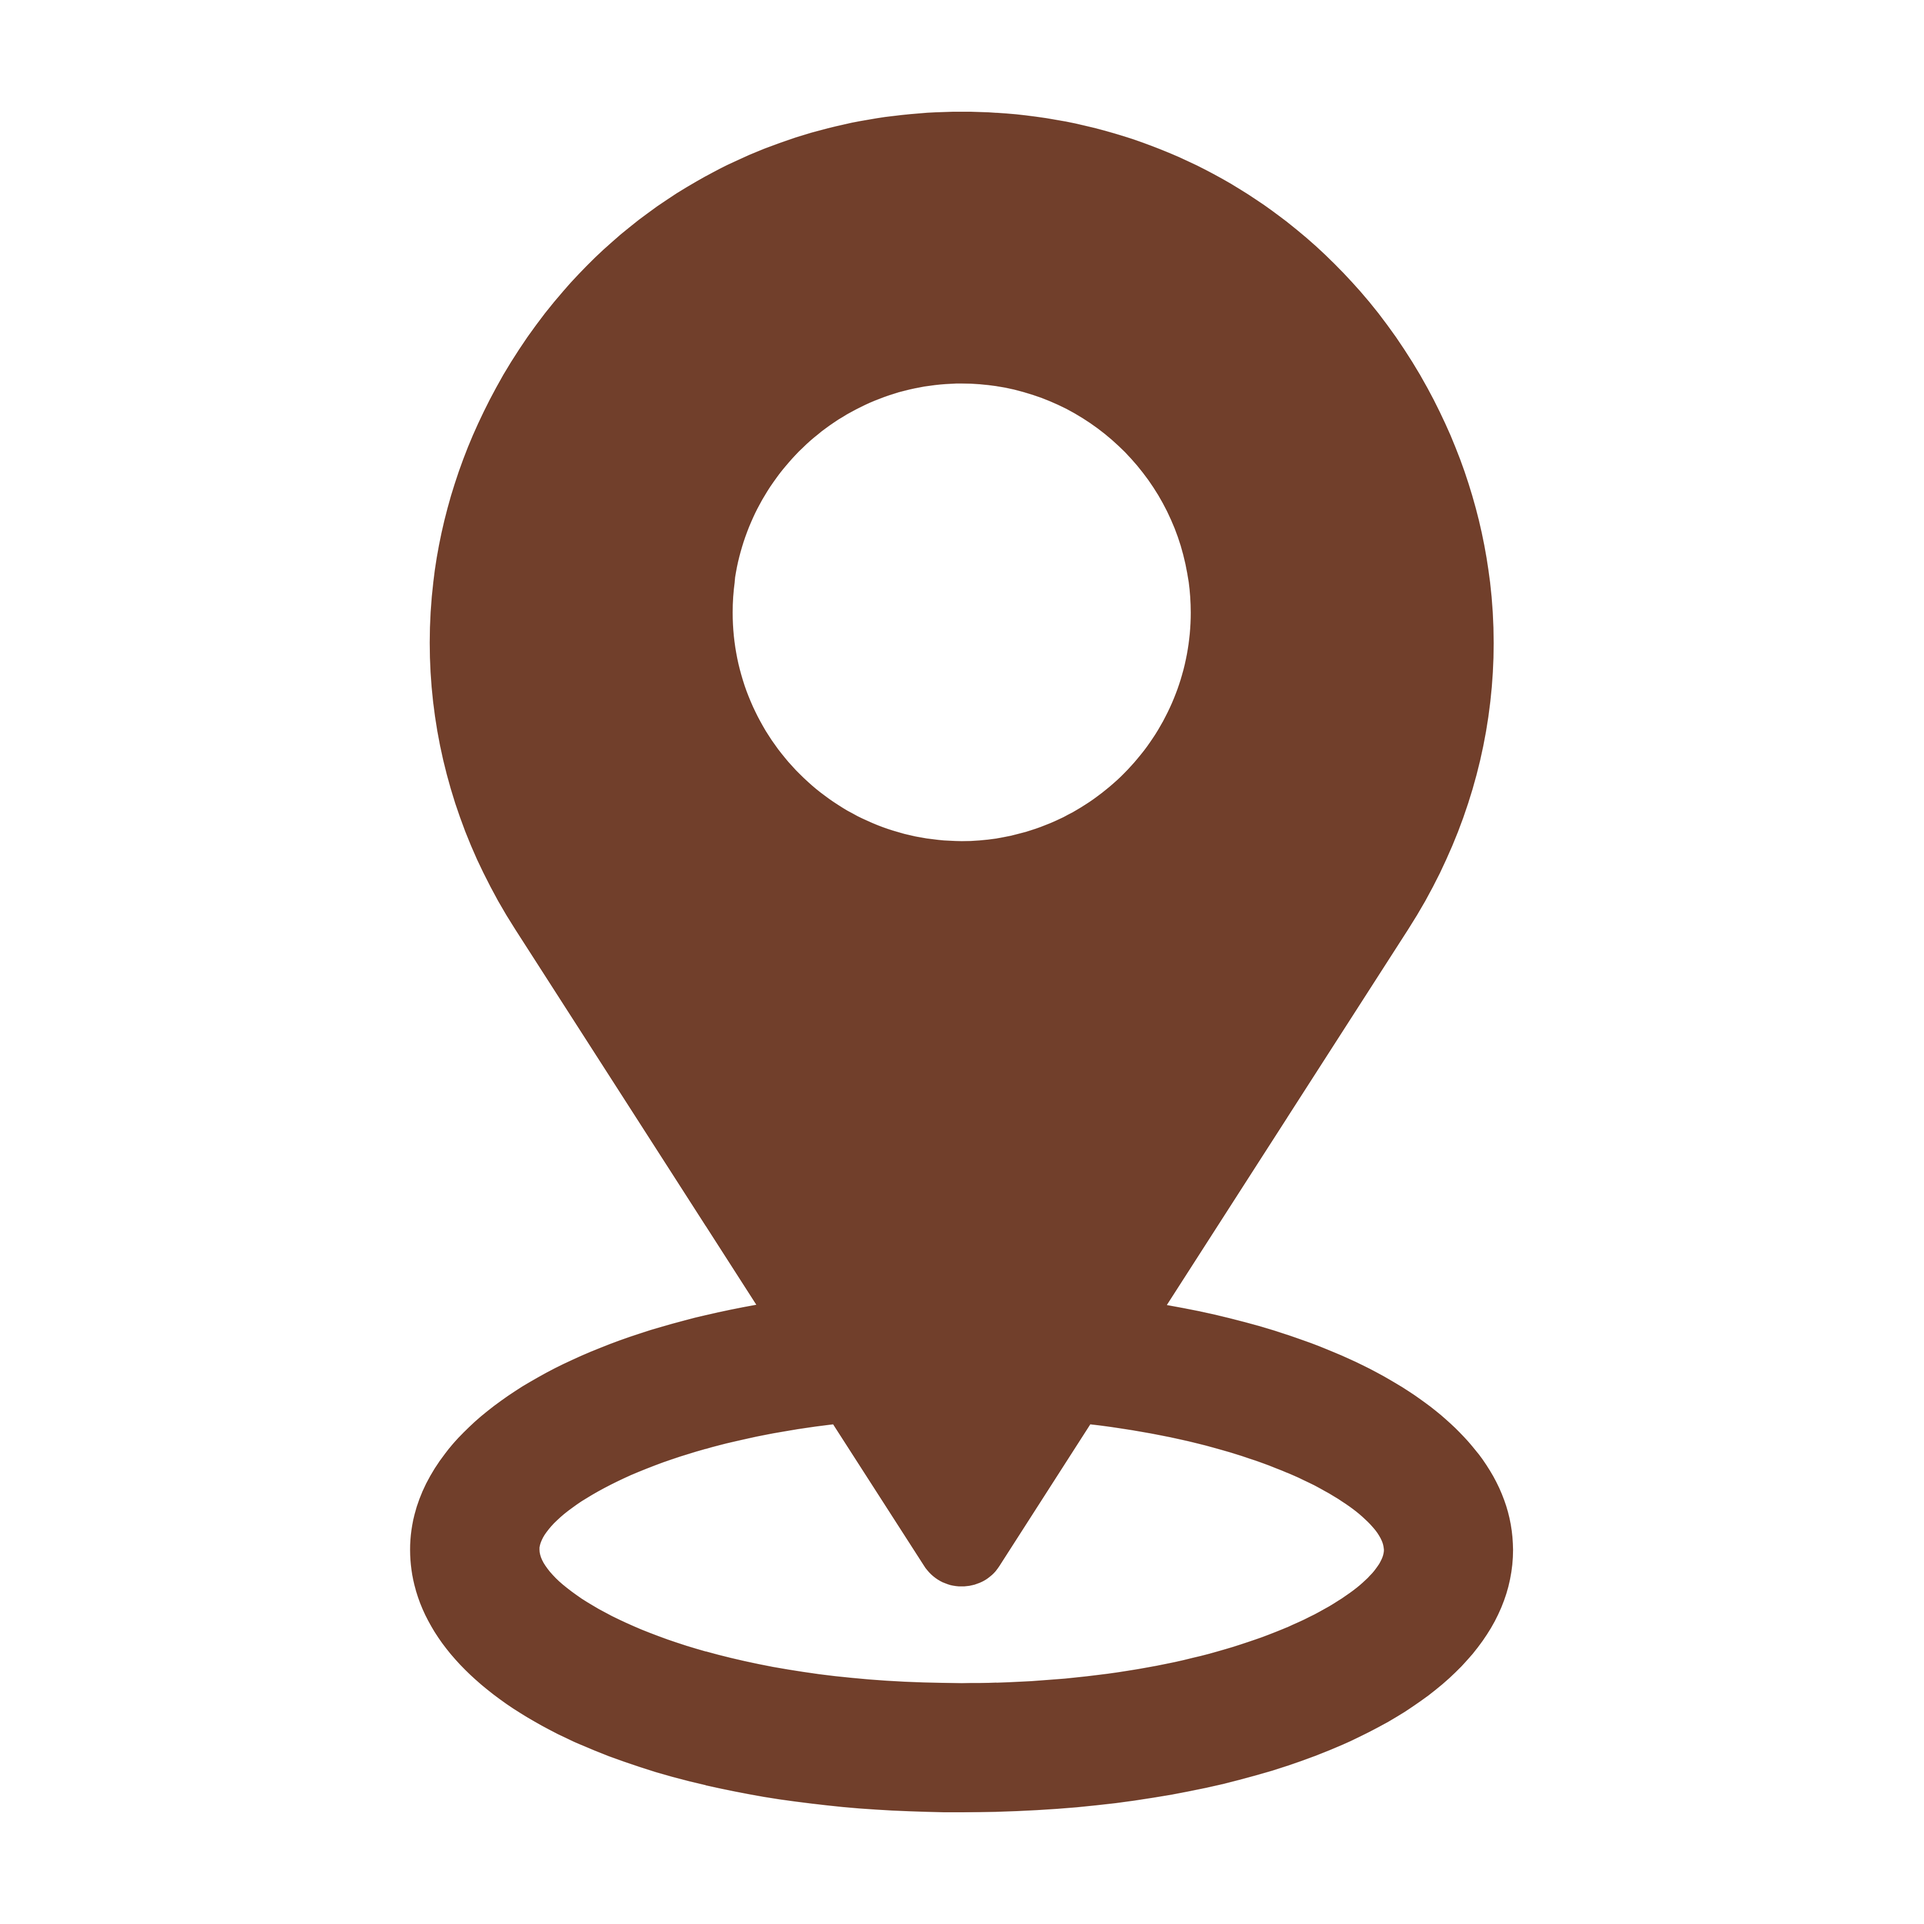
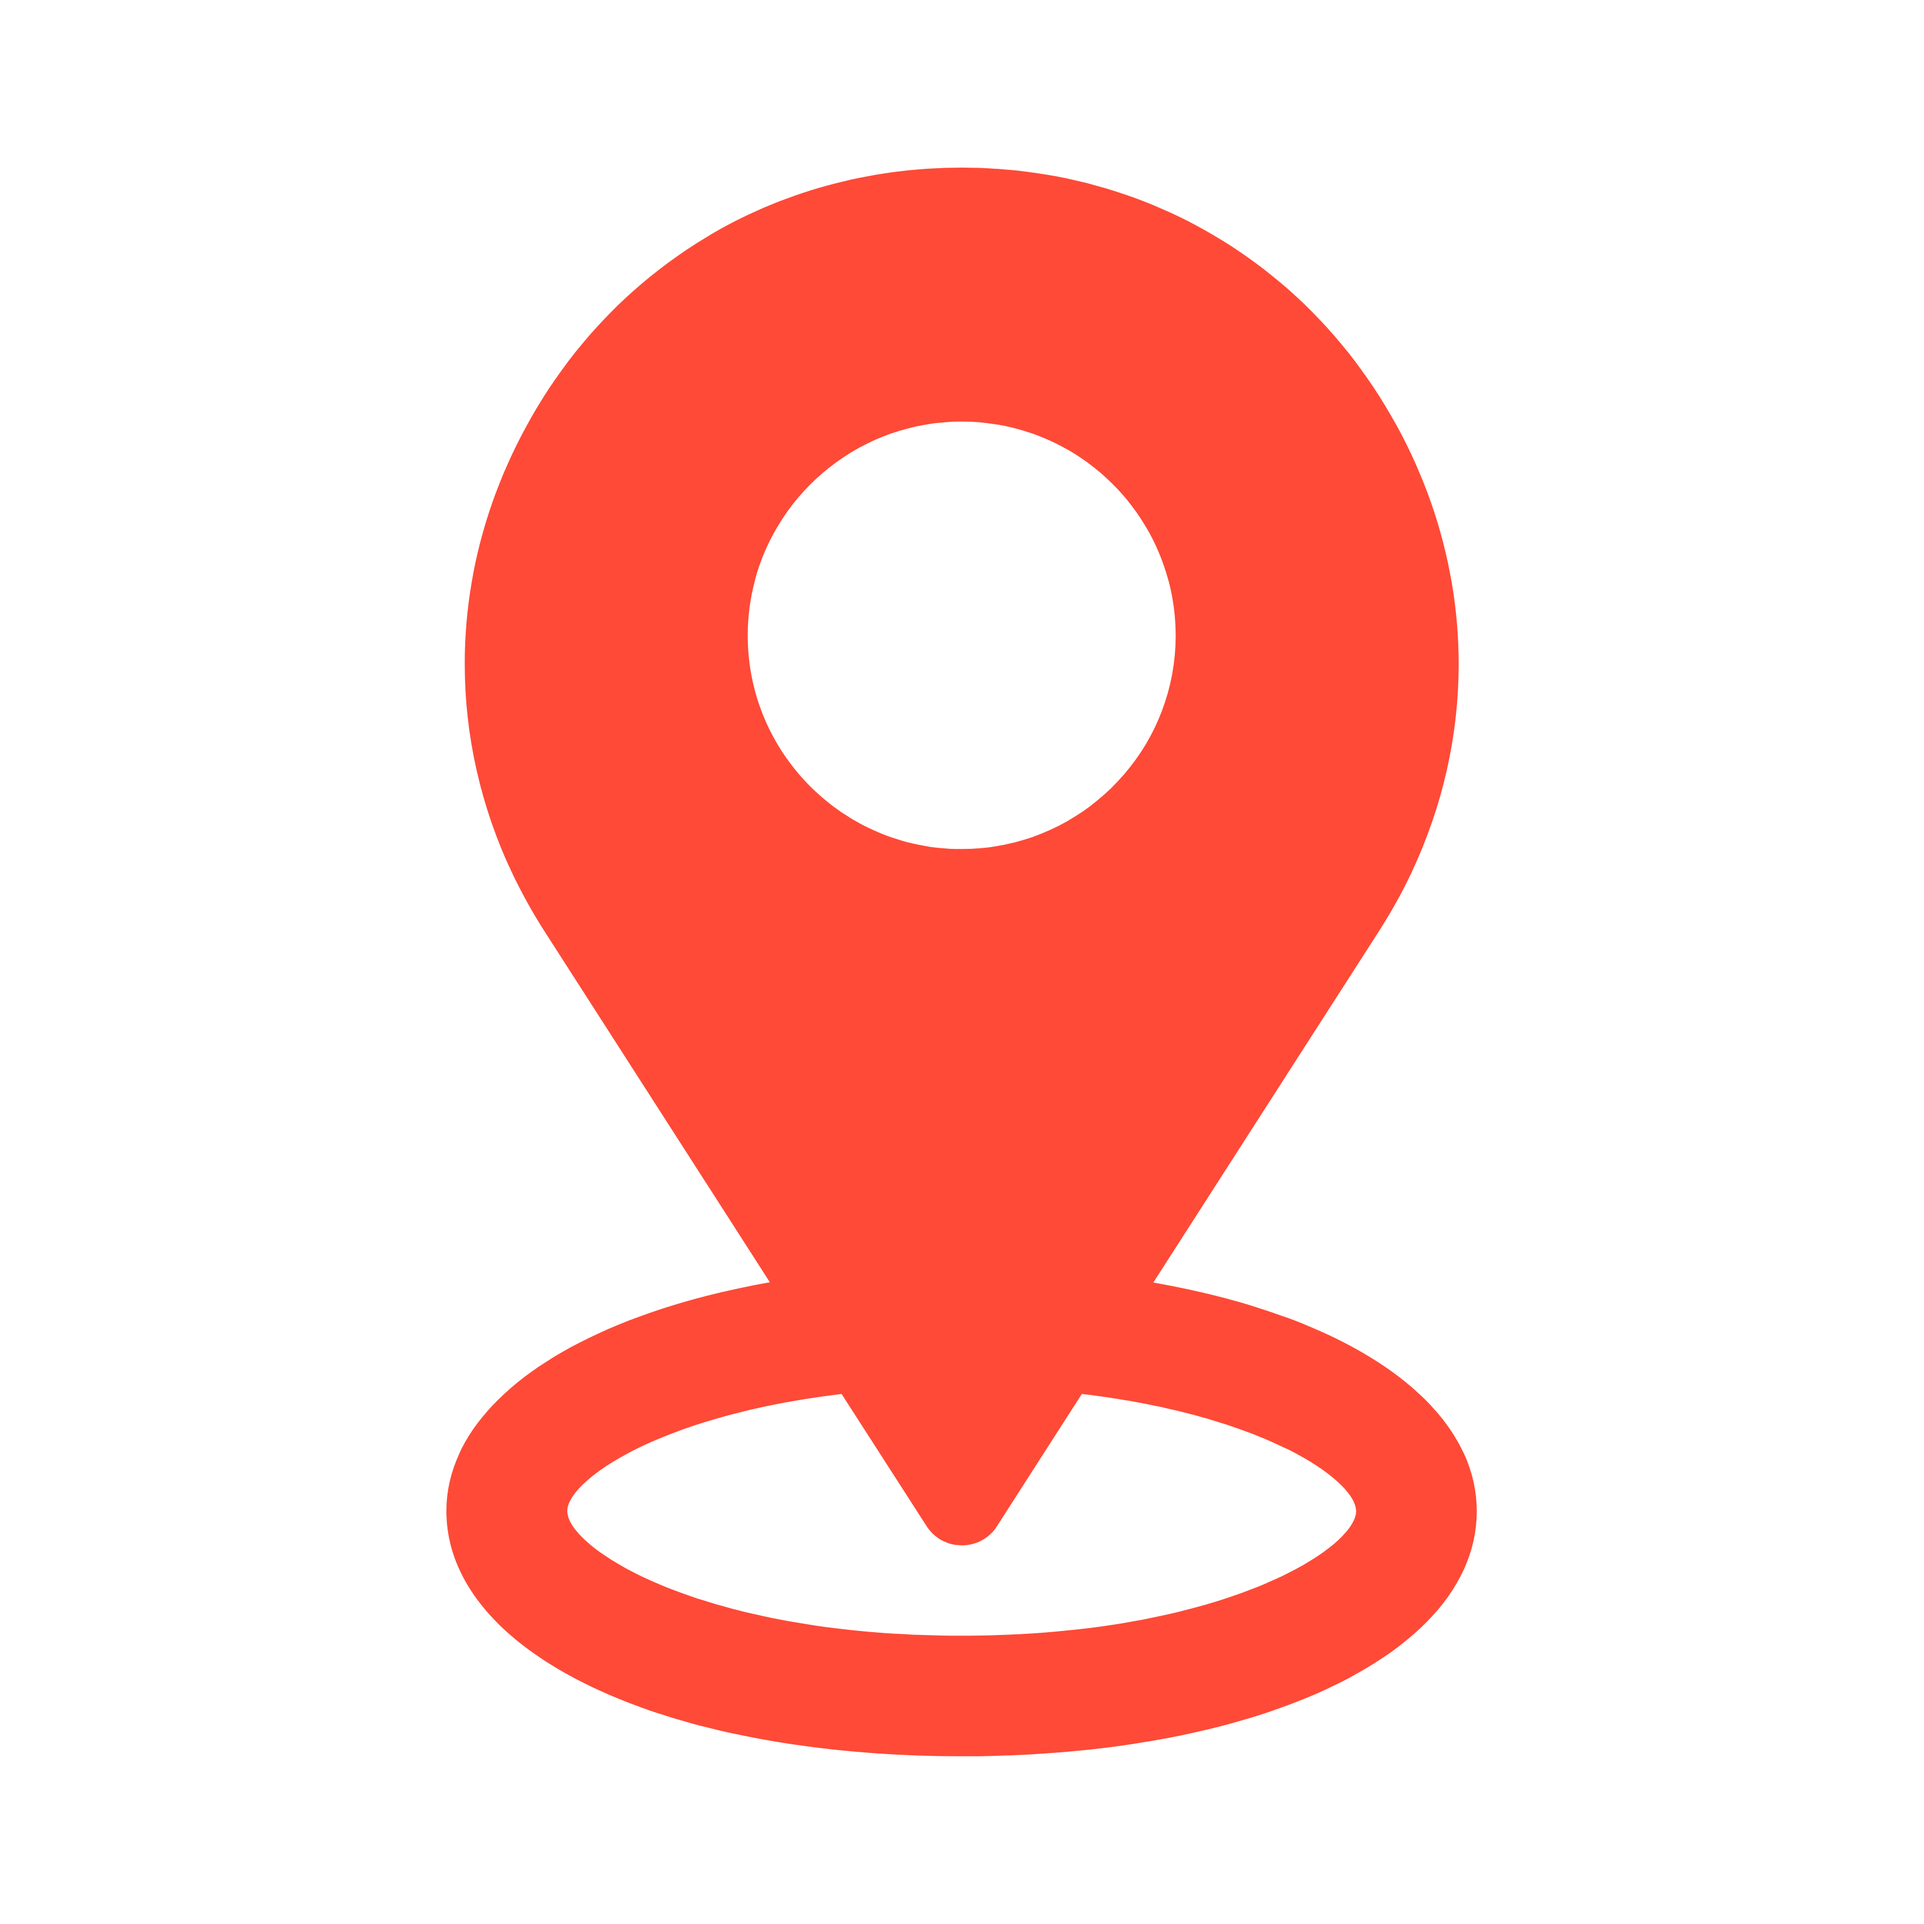
Added contact us section

diff --git a/index.html b/index.html
@@ -148,6 +148,42 @@
             </section>
             <section class="contact">
                 <h2>Contact Us</h2>
+                <p>Have questions or craving something sweet? We'd love to hear from you!</p>
+                <div class="contact-container">
+                    <div class="contact-info">
+                        <div class="contact-details">
+                            <img src="images/loc.png">
+                            <p>Valencia City, Bukidnon</p>
+                        </div>
+                        <div class="contact-details">
+                            <img src="images/no.png">
+                            <p>0951-886-2534</p>
+                        </div>
+                        <div class="contact-details">
+                            <img src="images/email.png">
+                            <p>wafflelicious@gmail.com</p>
+                        </div>
+                        <div class="contact-details">
+                            <img src="images/day.png">
+                            <p>Open Everyday 8:00 AM - 8:00 PM</p>
+                        </div>
+                    </div>
+                    <div class="follow">
+                        <h3>Follow Us!</h3>
+                        <div class="contact-details">
+                            <img src="images/fb.png">
+                            <p>Wafflelicious Official Page</p>
+                        </div>
+                        <div class="contact-details">
+                            <img src="images/ig.png">
+                            <p>Wafflelicious.official</p>
+                        </div>
+                        <div class="contact-details">
+                            <img src="images/threads.png">
+                            <p>its.Wafflelicious</p>
+                        </div>
+                    </div>
+                </div>
             </section>
         </main>
         <footer>

diff --git a/css/style.css b/css/style.css
@@ -563,8 +563,73 @@ nav a {
             transparent 85px,
             transparent 120px
         );
+    padding:  20px 70px 80px;
 }
 
 .contact h2 {
     margin: 0px;
+    margin-top: 30px;
+    font-family: "Fredoka", sans-serif;
+    font-size: 50px;
+    background:linear-gradient(
+        90deg,
+        #f88664, 
+        #FF4A37,
+        #F44336
+    );
+    background-clip: text;
+    -webkit-background-clip: text;
+    color:transparent
+}
+
+.contact h3 {
+    font-family: "Fredoka", sans-serif;
+    font-size: 20px;
+    background:linear-gradient(
+        90deg,
+        #f88664, 
+        #FF4A37,
+        #F44336
+    );
+    background-clip: text;
+    -webkit-background-clip: text;
+    color:transparent
+}
+.contact p {
+    font-family: "Poppins", sans-serif;
+    color:#713F2B;
+    font-weight: 500;
+    font-size: 20px;
+}
+
+.contact-container {
+    display: flex;
+    gap: 50px;
+}
+
+.contact-details img {
+    width: 40px;
+}
+
+.contact-container > img {
+    width: 500px;
+    object-fit: cover;
+
+}
+
+.contact-details {
+    display: flex;
+    align-items: center;
+    gap: 15px;
+}
+
+.contact-details p {
+    font-family: "Poppins", sans-serif;
+    color:#713F2B;
+    font-weight: 500;
+    font-size: 18px;
+}
+.contact-container {
+    display: flex;
+    gap: 70px;
 }
